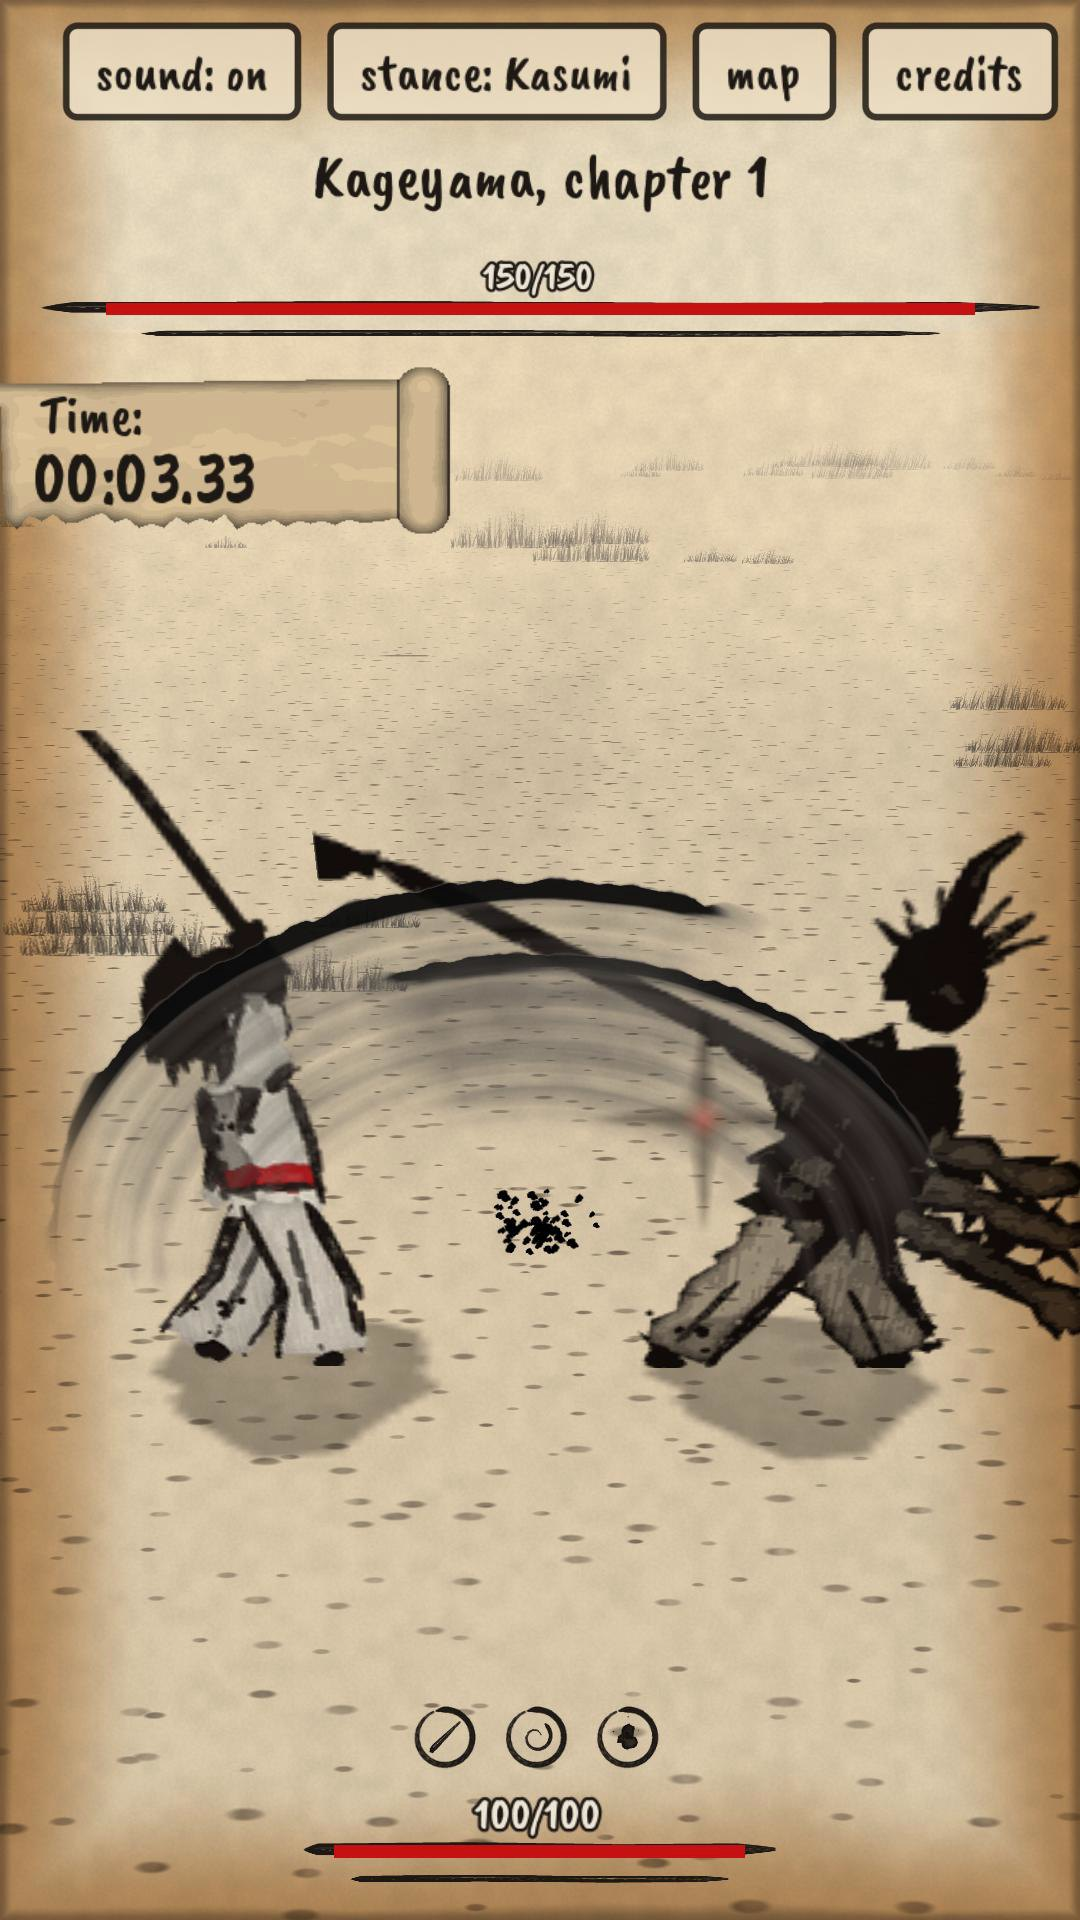
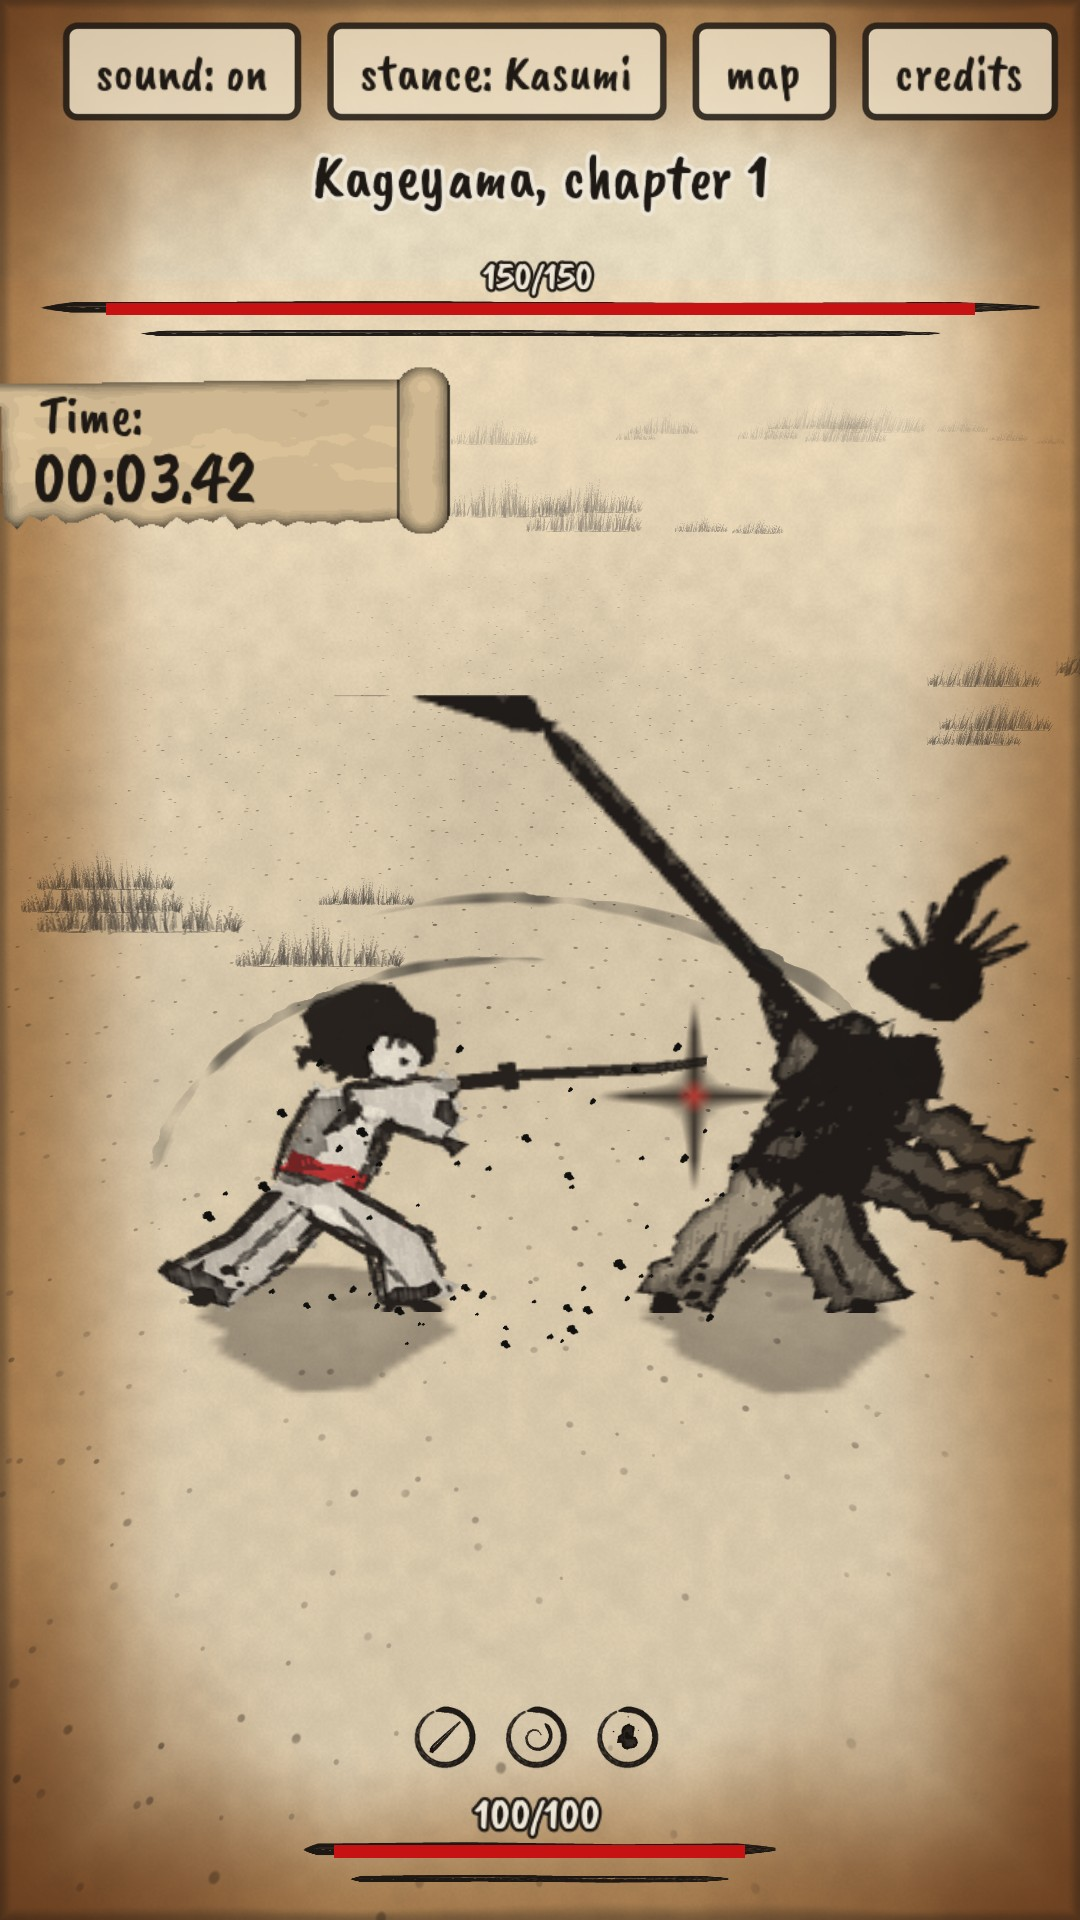
Godot take C42: store screenshots re-captured with current ink-wash art

diff --git a/godot/store/listing.md b/godot/store/listing.md
@@ -35,7 +35,7 @@ ISSEN does not collect, store off-device, or share any personal information. The
 ## Assets in this folder
 - icon-512.png - 512x512 app icon (Play hi-res icon, 32-bit PNG, no alpha)
 - feature-1024x500.jpg - feature graphic (24-bit JPEG)
-- screenshots/ - 8 in-game frames (land-*.jpg 1920x1080, port-*.jpg 1080x1920) captured with Godot Movie Maker from the --autoplay-boss, --autoplay-armor and --autoplay-spear runs (C28); regenerate them the same way after art changes
+- screenshots/ - 8 in-game frames (land-*.jpg 1920x1080, port-*.jpg 1080x1920) captured with Godot Movie Maker from the --autoplay-boss, --autoplay-armor and --autoplay-spear runs (C42, current ink-wash art); regenerate them the same way after art changes
 
 ## Still open before v1.0
 - Owner contact email and a hosted privacy-policy URL
